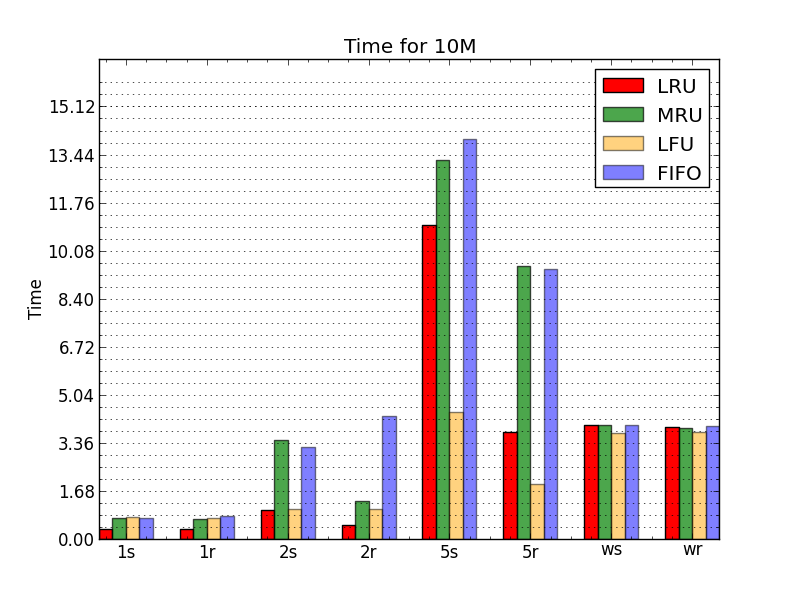
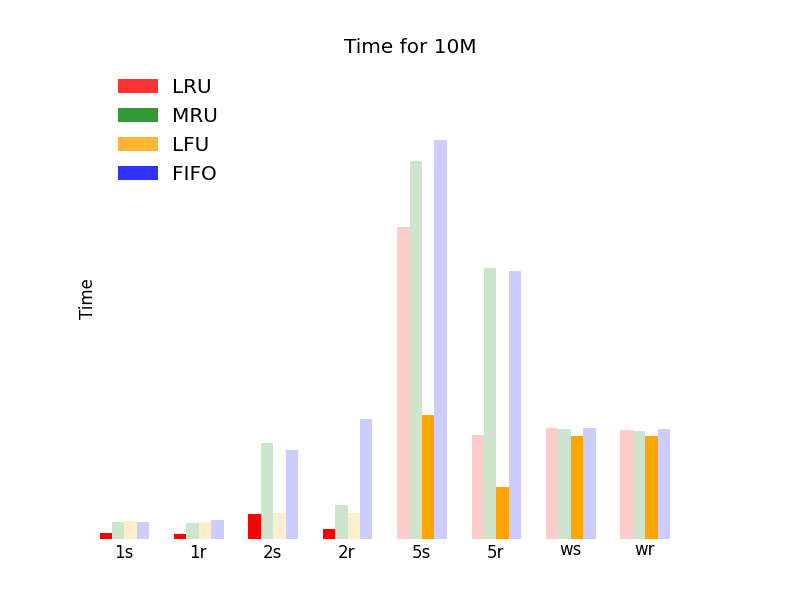
alpha channel

diff --git a/debug/compare.py b/debug/compare.py
@@ -1,30 +1,38 @@
 #!/usr/bin/python
 import matplotlib
 
-matplotlib.use('Agg')
+#matplotlib.use('Agg')
 import matplotlib.pyplot as plt
 from numpy import arange
+from matplotlib.pyplot import Rectangle
 
 #plt.xkcd()
-ind = None
-ymax = 0
+ind = arange(4)
+ymin, ymax = 100, 0
 width = 0.35
 for size in ["10k", "100k", "200k", "1M", "10M"]:
     if size == "1M":
-        textlabels = [i + s + rep for i in ["1", "2", "5", "w"]
-                      for s in ["s", "r"] for rep in ["", "<"]]
+        textlabels = filter(
+            lambda a: a != "wr<",
+            [i + s + rep if i + s + rep != "ws<" else ""
+             for i in ["1", "2", "5", "w"]
+             for s in ["s", "r"] for rep in ["", "<"]])
     else:
         textlabels = [i + s for i in ["1", "2", "5", "w"] for s in ["s", "r"]]
     fig, ax = plt.subplots()
     rects = []
-    for algo, color, offset in [("LRU", ("r", 1), 0),
-                                ("MRU", ("g", 0.7), 1),
-                                ("LFU", ("orange", 0.5), 2),
-                                ("FIFO", ("b", 0.5), 3)]:
-        means = []
-        for thread in ["1", "2", "5", "write"]:
-            for rule in ["seq", "rand"]:
-                for t in [1000, 250]:
+    j = 0
+    for thread in ["1", "2", "5", "write"]:
+        for rule in ["seq", "rand"]:
+            ts = [1000]
+            if size == "1M":
+                ts.append(250)
+            for t in ts:
+                means = []
+                for algo, color, offset in [("LRU", "r", 0),
+                                            ("MRU", "g", 1),
+                                            ("LFU", "orange", 2),
+                                            ("FIFO", "b", 3)]:
                     try:
                         x = reduce(lambda a, b: a + b,
                                    map(float,
@@ -33,30 +41,40 @@ for size in ["10k", "100k", "200k", "1M", "10M"]:
                                             + str(t) + "*" + size + ".txt",
                                             'r').readlines())) / 1000
                         ymax = x if x > ymax else ymax
-                        means.append(x)
+                        ymin = x if x < ymin else ymin
+                        means.append((x, color))
                     except Exception as e:
                         continue
-        if not len(means):
-            continue
-        ind = arange(len(means))
-        for index, mean in enumerate(means):
 
-            rects.append(ax.bar(index * width * 6 + offset * width,
-                                mean, width,
-                                color=color[0], alpha=color[1]))
+                for offset, (mean, color) in enumerate(means):
+                    rects.append(
+                        ax.bar(j * width * 6 + offset * width,
+                               mean, width, linewidth=0, color=color,
+                               alpha=1
+                               if mean == min(map(lambda m: m[0], means))
+                               else 0.2))
+                j += 1
 
     ymax *= 1.2
-    ax.set_ylim(0, ymax)
-    ax.set_xlim(0, 6 * width * len(ind) - 2 * width)
+    ymin *= 0.9
+    ax.set_ylim(ymin, ymax)
     ax.set_ylabel('Time')
     ax.set_title('Time for ' + size)
+    ind = arange(j)
     ax.set_xticks(ind * width * 6 + width * 2)
+    ax.set_xlim(0, 6 * width * j + 2 * width)
     ax.set_xticklabels(textlabels)
-    ax.set_yticks(arange(0, ymax, round(ymax / 10, 2)))
-
-    labels = [rects[i * len(rects) / 4] for i in range(4)]
-    ax.legend(labels, ["LRU", "MRU", "LFU", "FIFO"], loc=0)
+    ax.set_yticks(arange(ymin, ymax, round((ymax - ymin) / 10, 2)))
+    labels = [Rectangle((0, 0), 1, 1, fc=c, alpha=0.8, linewidth=0)
+              for c in ["r", "g", "orange", "b"]]
+    ax.legend(labels, ["LRU", "MRU", "LFU", "FIFO"], loc=2, frameon=False)
     plt.minorticks_on()
-    plt.grid(True, which='both', axis='y')
-
+    plt.tick_params(axis="x", which='both', bottom='off', top='off',
+                    labelbottom='on')
+    plt.tick_params(axis="y", which='both', left='off', right='off',
+                    labelleft='off')
+    #plt.grid(True, which='both', axis='y')
+    plt.box()
+    #plt.show()
+    #exit(0)
     plt.savefig("./result/compare_" + size + ".png", format="png")
